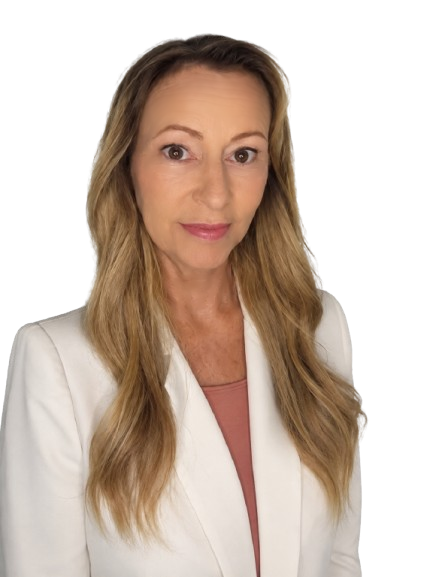
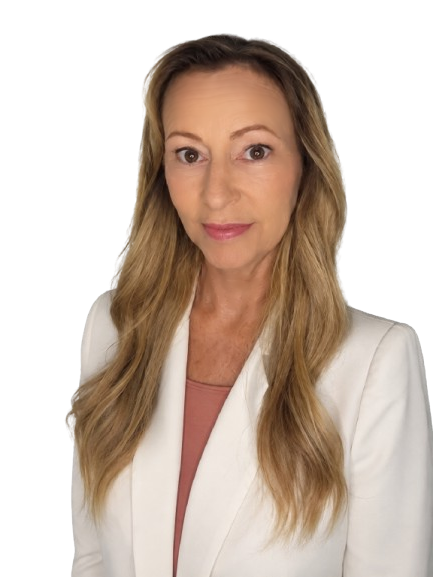
added right facing photo

diff --git a/index.html b/index.html
@@ -17,7 +17,7 @@
     <meta property="og:image:height" content="630" />
     <meta
       property="og:image"
-      content="https://dannellbayer.com//images/dani1.jpg"
+      content="https://dannellbayer.com//images/dani3.png"
     />
     <meta property="og:type" content="website" />
 
@@ -133,7 +133,7 @@
           </div>
           <div class="container">
             <div class="hero-divImg">
-              <img src="images/dani1.jpg" alt="Portrait of Dannell Bayer" />
+              <img src="images/dani3.png" alt="Portrait of Dannell Bayer" />
             </div>
             <div class="text">
               Eager to bring curiosity, creativity, and growing skills to a LIA